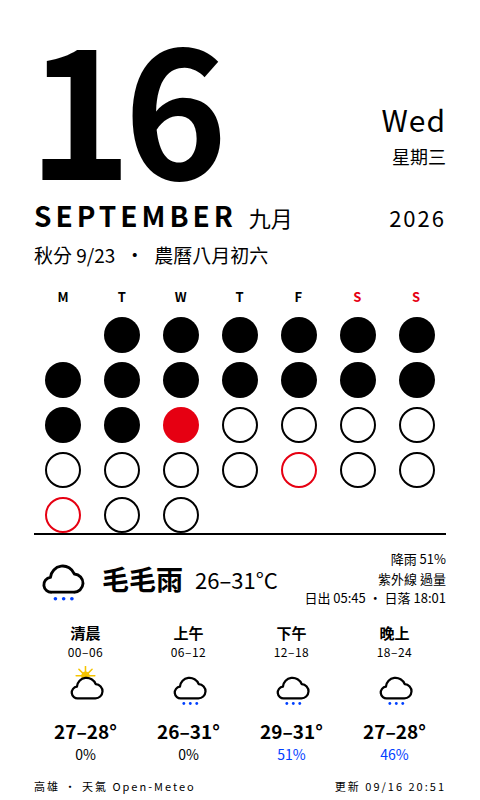
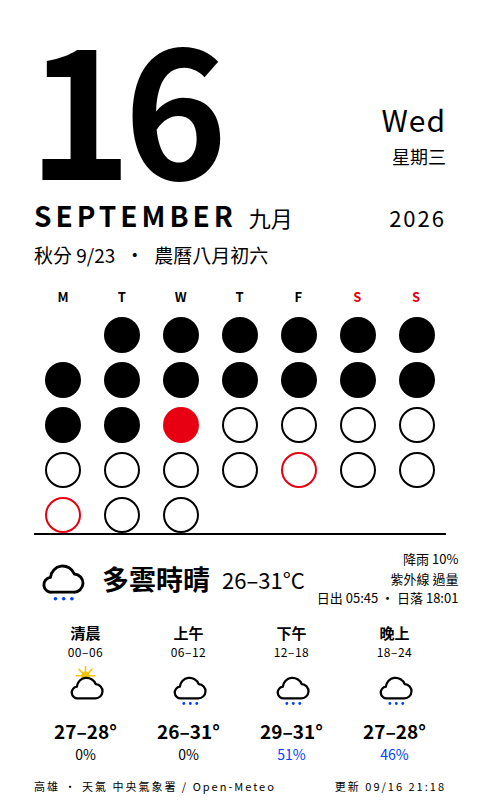
deploy: c4a4185e767639aec0b767d9e93eaf967c8d0592

Changed region(s): [[0.2188, 0.6875, 0.9688, 0.7812], [0.2188, 0.9688, 0.5625, 1.0], [0.875, 0.9688, 0.9375, 1.0]]

diff --git a/calendar.html b/calendar.html
@@ -53,9 +53,9 @@
   <div class="today"><span class="lunar">秋分 9/23</span><span>·</span><span class="lunar">農曆八月初六</span></div>
   <div class="grid"><div class="h">M</div><div class="h">T</div><div class="h">W</div><div class="h">T</div><div class="h">F</div><div class="h we">S</div><div class="h we">S</div><div class="dot empty"></div><div class="dot past" title="1"></div><div class="dot past" title="2"></div><div class="dot past" title="3"></div><div class="dot past" title="4"></div><div class="dot past" title="5"></div><div class="dot past" title="6"></div><div class="dot past" title="7"></div><div class="dot past" title="8"></div><div class="dot past" title="9"></div><div class="dot past" title="10"></div><div class="dot past" title="11"></div><div class="dot past" title="12"></div><div class="dot past" title="13"></div><div class="dot past" title="14"></div><div class="dot past" title="15"></div><div class="dot now" title="16"></div><div class="dot future" title="17"></div><div class="dot future" title="18"></div><div class="dot future" title="19"></div><div class="dot future" title="20"></div><div class="dot future" title="21"></div><div class="dot future" title="22"></div><div class="dot future" title="23"></div><div class="dot future" title="24"></div><div class="dot future hol" title="25"></div><div class="dot future" title="26"></div><div class="dot future" title="27"></div><div class="dot future hol" title="28"></div><div class="dot future" title="29"></div><div class="dot future" title="30"></div></div>
   <div class="wx">
-    <div class="wxhead"><svg viewBox="0 0 64 68" xmlns="http://www.w3.org/2000/svg"><path d="M20 50h26a11 11 0 0 0 1-22 15 15 0 0 0-29 4 9 9 0 0 0 2 18z" fill="#fff" stroke="#000" stroke-width="3.5" stroke-linejoin="round"/><g fill="#0040ff"><circle cx="24" cy="58" r="2.2"/><circle cx="34" cy="58" r="2.2"/><circle cx="44" cy="58" r="2.2"/></g></svg><span class="desc">毛毛雨</span><span class="temp">26–31°C</span>
-      <div class="meta">降雨 51%<br>紫外線 過量<br>日出 05:45 · 日落 18:01</div></div>
+    <div class="wxhead"><svg viewBox="0 0 64 68" xmlns="http://www.w3.org/2000/svg"><path d="M20 50h26a11 11 0 0 0 1-22 15 15 0 0 0-29 4 9 9 0 0 0 2 18z" fill="#fff" stroke="#000" stroke-width="3.5" stroke-linejoin="round"/><g fill="#0040ff"><circle cx="24" cy="58" r="2.2"/><circle cx="34" cy="58" r="2.2"/><circle cx="44" cy="58" r="2.2"/></g></svg><span class="desc">多雲時晴</span><span class="temp">26–31°C</span>
+      <div class="meta">降雨 10%<br>紫外線 過量<br>日出 05:45 · 日落 18:01</div></div>
     <div class="slots"><div class="slot"><div class="n">清晨</div><div class="hrs">00–06</div><svg viewBox="0 0 64 68" xmlns="http://www.w3.org/2000/svg"><g transform="translate(12 -4) scale(.6)"><circle cx="32" cy="32" r="11" fill="#f5c400"/><g stroke="#f5c400" stroke-width="4" stroke-linecap="round"><line x1="32" y1="32" x2="32" y2="8" transform="rotate(0 32 32)"/><line x1="32" y1="32" x2="32" y2="8" transform="rotate(45 32 32)"/><line x1="32" y1="32" x2="32" y2="8" transform="rotate(90 32 32)"/><line x1="32" y1="32" x2="32" y2="8" transform="rotate(135 32 32)"/><line x1="32" y1="32" x2="32" y2="8" transform="rotate(180 32 32)"/><line x1="32" y1="32" x2="32" y2="8" transform="rotate(225 32 32)"/><line x1="32" y1="32" x2="32" y2="8" transform="rotate(270 32 32)"/><line x1="32" y1="32" x2="32" y2="8" transform="rotate(315 32 32)"/></g></g><path d="M20 50h26a11 11 0 0 0 1-22 15 15 0 0 0-29 4 9 9 0 0 0 2 18z" fill="#fff" stroke="#000" stroke-width="3.5" stroke-linejoin="round"/></svg><div class="t">27–28°</div><div class="p dry">0%</div></div><div class="slot"><div class="n">上午</div><div class="hrs">06–12</div><svg viewBox="0 0 64 68" xmlns="http://www.w3.org/2000/svg"><path d="M20 50h26a11 11 0 0 0 1-22 15 15 0 0 0-29 4 9 9 0 0 0 2 18z" fill="#fff" stroke="#000" stroke-width="3.5" stroke-linejoin="round"/><g fill="#0040ff"><circle cx="24" cy="58" r="2.2"/><circle cx="34" cy="58" r="2.2"/><circle cx="44" cy="58" r="2.2"/></g></svg><div class="t">26–31°</div><div class="p dry">0%</div></div><div class="slot"><div class="n">下午</div><div class="hrs">12–18</div><svg viewBox="0 0 64 68" xmlns="http://www.w3.org/2000/svg"><path d="M20 50h26a11 11 0 0 0 1-22 15 15 0 0 0-29 4 9 9 0 0 0 2 18z" fill="#fff" stroke="#000" stroke-width="3.5" stroke-linejoin="round"/><g fill="#0040ff"><circle cx="24" cy="58" r="2.2"/><circle cx="34" cy="58" r="2.2"/><circle cx="44" cy="58" r="2.2"/></g></svg><div class="t">29–31°</div><div class="p ">51%</div></div><div class="slot"><div class="n">晚上</div><div class="hrs">18–24</div><svg viewBox="0 0 64 68" xmlns="http://www.w3.org/2000/svg"><path d="M20 50h26a11 11 0 0 0 1-22 15 15 0 0 0-29 4 9 9 0 0 0 2 18z" fill="#fff" stroke="#000" stroke-width="3.5" stroke-linejoin="round"/><g fill="#0040ff"><circle cx="24" cy="58" r="2.2"/><circle cx="34" cy="58" r="2.2"/><circle cx="44" cy="58" r="2.2"/></g></svg><div class="t">27–28°</div><div class="p ">46%</div></div></div>
   </div>
-  <div class="foot"><span>高雄 · 天氣 Open-Meteo</span><span>更新 09/16 20:51</span></div>
+  <div class="foot"><span>高雄 · 天氣 中央氣象署 / Open-Meteo</span><span>更新 09/16 21:18</span></div>
 </div></body></html>
